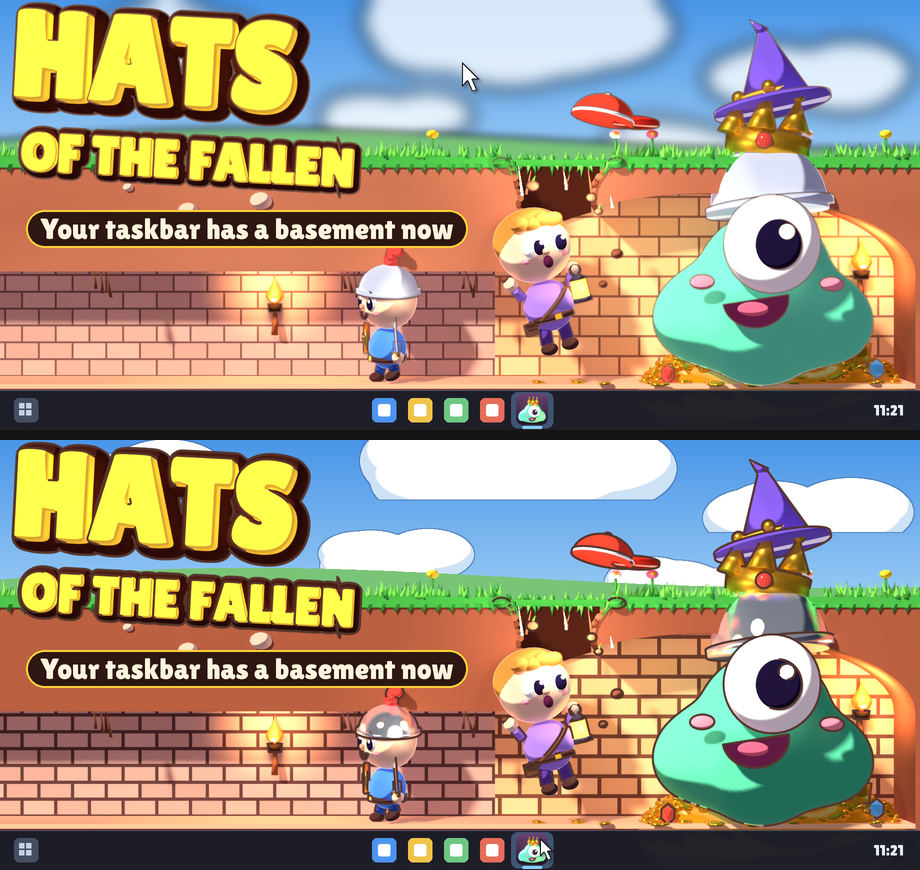
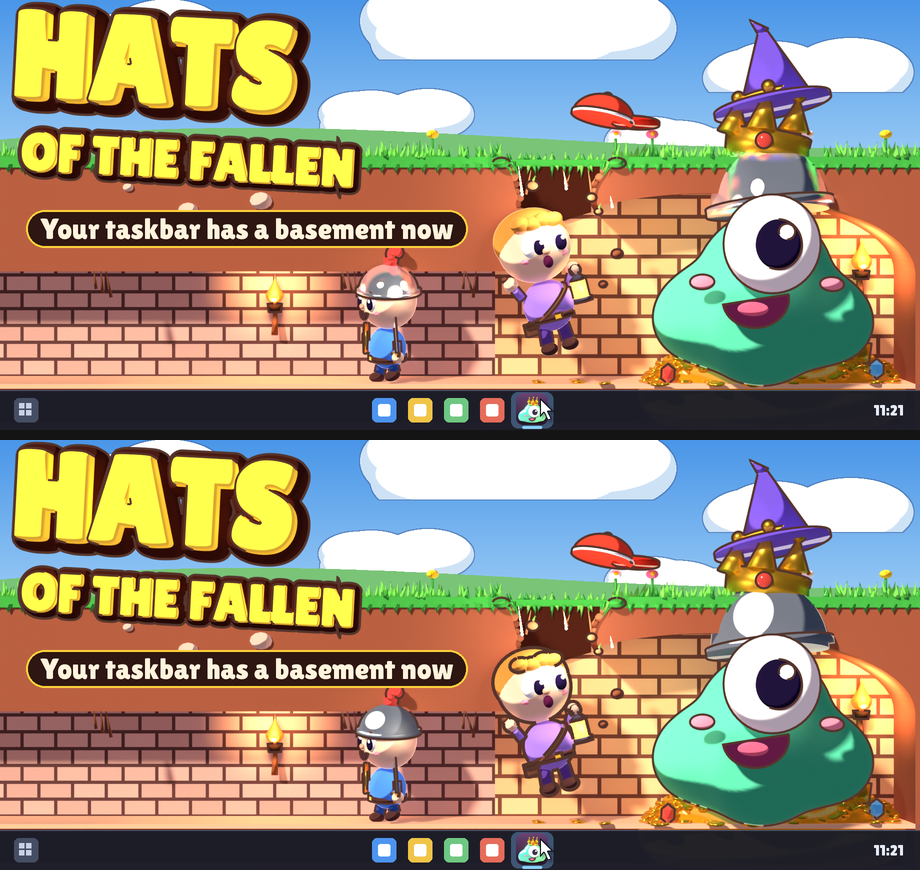
Mila #30: header v8 (Daan #281 K1 emmer vlak metaal, K2 held even dikke lijn), blinde test v7 tegen v8
Claude-Session: https://claude.ai/code/session_01RMWUyj2PABJTNSkAcc7rye

diff --git a/ontwerp/steam/capsule-v2/header_v2.py b/ontwerp/steam/capsule-v2/header_v2.py
@@ -463,7 +463,23 @@ if TOON:
             nt.links.new(mm.outputs[2], er.inputs["Color"])
             a3 = nt.nodes.new("ShaderNodeAddShader")
             nt.links.new(add.outputs[0], a3.inputs[0]); nt.links.new(er.outputs[0], a3.inputs[1]); laatst = a3
-        if m.name.lower().startswith(GLIM) or METAAL:
+        V8 = os.environ.get("HV2_V8", "0") == "1"
+        if METAAL and V8:
+            # v8 (Daan #281 K1): de glans spiegelde de lichte muur en las als glas. Nu een getekende glimstreep:
+            # vaste richting tegen de normaal, harde rand, wit. Geen spiegeling meer, dus vlak grijs metaal.
+            gn = nt.nodes.new("ShaderNodeNewGeometry")
+            vd = nt.nodes.new("ShaderNodeVectorMath"); vd.operation = "DOT_PRODUCT"
+            vd.inputs[1].default_value = Vector((E("GLX", "-0.45"), E("GLY", "-0.75"), E("GLZ", "0.5"))).normalized()
+            nt.links.new(gn.outputs["Normal"], vd.inputs[0])
+            gr = nt.nodes.new("ShaderNodeValToRGB"); gr.color_ramp.interpolation = "CONSTANT"
+            gr.color_ramp.elements[0].color = (0, 0, 0, 1); gr.color_ramp.elements[1].position = E("GLPOS", "0.93")
+            gr.color_ramp.elements[1].color = (1, 0.98, 0.94, 1)
+            nt.links.new(vd.outputs["Value"], gr.inputs[0])
+            ge = nt.nodes.new("ShaderNodeEmission"); ge.inputs["Strength"].default_value = E("GLSTERK", "0.9")
+            nt.links.new(gr.outputs["Color"], ge.inputs["Color"])
+            a2 = nt.nodes.new("ShaderNodeAddShader")
+            nt.links.new(laatst.outputs[0], a2.inputs[0]); nt.links.new(ge.outputs[0], a2.inputs[1]); laatst = a2
+        elif m.name.lower().startswith(GLIM) or METAAL:
             tg = nt.nodes.new("ShaderNodeBsdfToon"); tg.component = "GLOSSY"
             tg.inputs["Size"].default_value = E("MGSIZE", "0.16") if METAAL else E("GSIZE", "0.08"); tg.inputs["Smooth"].default_value = 0.0
             g_ = E("MGKLEUR", "1.6") if METAAL else E("GKLEUR", "0.45"); tg.inputs["Color"].default_value = (g_, g_ * 0.97, g_ * 0.9, 1)
@@ -518,6 +534,21 @@ if os.environ.get("HV2_LIJN", "0") == "1":
     ls.linestyle.color = (0.16, 0.07, 0.05); ls.linestyle.thickness = 1.0; ls.linestyle.alpha = 0.85
     if os.environ.get("HV2_V7", "0") == "1":   # v7 (Daan #275 M3): dikker en donkerder, zichtbaar op 460
         ls.linestyle.color = (0.09, 0.035, 0.025); ls.linestyle.alpha = 1.0
+    if os.environ.get("HV2_V8", "0") == "1":   # v8 (Daan #281 K2): de vallende held krijgt dezelfde lijn als Gloop
+        # Gloop is groot en rond, de held bestaat uit kleine delen: dezelfde lijn leest daar dunner. Een tweede
+        # lijnset alleen om de held, iets dikker, zodat beide op 920 en 460 even zwaar lezen.
+        dik = bpy.data.collections.new("heldlijn"); sc.collection.children.link(dik)
+        for o in HV.children_recursive:
+            mn = o.active_material.name.split(".")[0] if o.active_material else ""
+            if mn.startswith(("brauw", "hmond", "hpupil", "hwit", "hglim", "hblos", "neus", "lichtje")): continue   # gezicht: geen extra lijntjes
+            if o.type in ("MESH", "CURVE") and not o.hide_render:
+                dik.objects.link(o)
+        l2 = fs.linesets.new("heldlijn")
+        l2.select_by_visibility = True; l2.select_by_edge_types = True
+        l2.select_silhouette = True; l2.select_border = False; l2.select_crease = False; l2.select_external_contour = False
+        l2.select_by_collection = True; l2.collection = dik; l2.collection_negation = "INCLUSIVE"
+        l2.linestyle = bpy.data.linestyles.new("inktheld"); l2.linestyle.color = ls.linestyle.color
+        l2.linestyle.alpha = 1.0; l2.linestyle.thickness = E("HELDLIJN", "1.45")
 sc.render.image_settings.file_format = "PNG"; sc.render.image_settings.color_mode = "RGBA"; sc.render.filepath = uit
 bpy.ops.render.render(write_still=True)
 print("klaar", uit)

diff --git a/ontwerp/steam/capsule-v2/LEESMIJ.md b/ontwerp/steam/capsule-v2/LEESMIJ.md
@@ -68,3 +68,11 @@ Schakelaar `HV2_V7=1` in `header_v2.py` en `V7=1` in `samenstellen.py` (standaar
 - Bekeken met Read op 920, 460 en 2x (`rechts-v7-2x.png`). Voor en na: `voor-na.png` (v6 boven, v7 onder).
 - Blinde test: set `hats-header-v2.json` heeft nu v6 en v7 als kandidaten.
 - Twee runs (14:58 en 15:08 NL) gaven geen uitslag: Gemini HTTP 503 (druk), daarna HTTP 429 gratis daglimiet op (GEZIEN in het log van run 46013097424). Nakeuring Daan gevraagd: #281.
+
+## Ronde 8 (27 nov ±17:00 NL, Daan #281 kan-punten K1 en K2)
+Schakelaar `HV2_V8=1` bovenop v7 (standaard uit, v7 blijft te maken):
+- **K1 emmer:** de glans van het metaal spiegelde de lichte muur en las als glas. Nu geen spiegeling meer maar een getekende glimstreep (vaste richting, harde rand, wit). Emmer op Gloop en helm van de ridder lezen als vlak grijs metaal.
+- **K2 lijn held:** tweede lijnset alleen om de vallende held (`HV2_HELDLIJN` 1,5), zonder extra lijntjes in het gezicht. Leest op 920 en 460 even zwaar als de lijn om Gloop.
+- Maken: als v7 plus `HV2_V8=1 HV2_HELDLIJN=1.5`, dan `V7=1 python3 samenstellen.py r.png header-v8-920x430.png`.
+- Bekeken met Read op 920, 460 en 2x (`rechts-v8-2x.png`). Voor en na: `voor-na.png` (v7 boven, v8 onder).
+- Blinde test: set `hats-header-v2.json` heeft nu v7 en v8.
